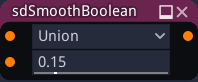
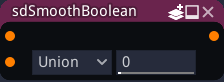
make 2d sdf boolean nodes variadic

diff --git a/material_maker/doc/node_simple_sdf_operators_sdsmoothboolean.rst b/material_maker/doc/node_simple_sdf_operators_sdsmoothboolean.rst
@@ -10,7 +10,9 @@ intersection or difference) of its inputs.
 Inputs
 ::::::
 
-The **sdSmoothBoolean** node accepts 2 inputs in signed distance function format.
+The **sdSmoothBoolean** node accepts two or more inputs in signed distance function format.
+
+This node is variadic, and more shapes can be added.
 
 Outputs
 :::::::

diff --git a/material_maker/doc/node_simple_sdf_operators_sdboolean.rst b/material_maker/doc/node_simple_sdf_operators_sdboolean.rst
@@ -10,7 +10,9 @@ intersection or difference) of its inputs.
 Inputs
 ::::::
 
-The **sdBoolean** node accepts 2 inputs in signed distance function format.
+The **sdBoolean** node accepts two or more inputs in signed distance function format.
+
+This node is variadic, and more shapes can be added.
 
 Outputs
 :::::::
